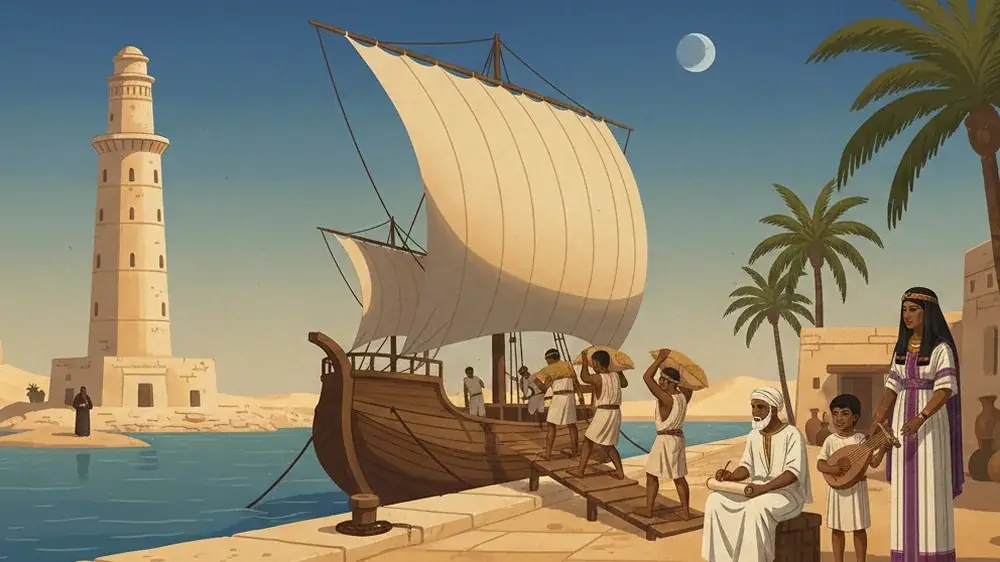
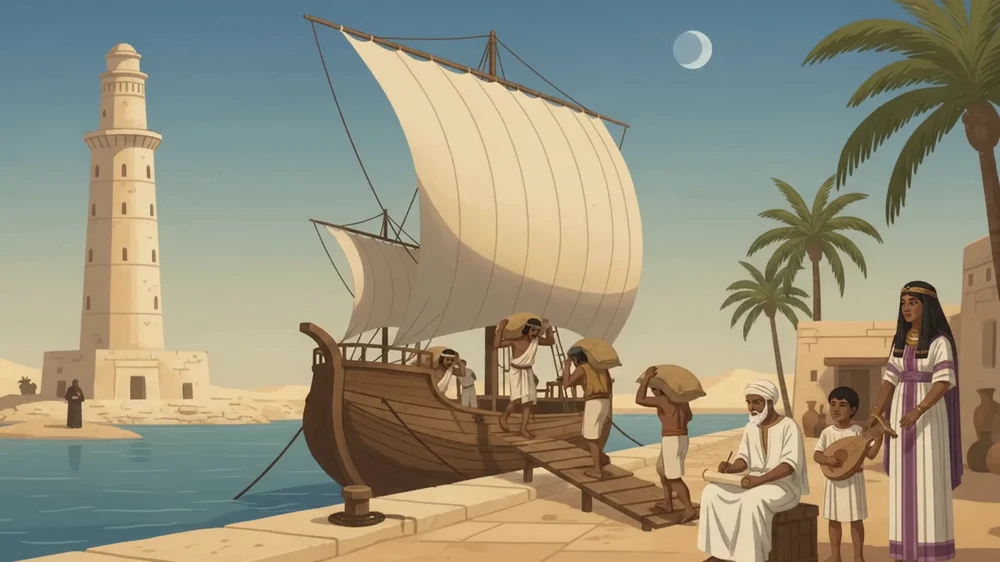
add: animación Gemini ant5-1 (Egipto romano y cristiano)
Claude-Session: https://claude.ai/code/session_01PD9K1kjfaCs4fqXJTcWSvd

diff --git a/sw.js b/sw.js
@@ -1,5 +1,5 @@
 // HistoKHB — service worker: la app abre sin conexión con lo ya visto.
-const V='hk-v296'
+const V='hk-v297'
 const SHELL=['./','index.html','manifest.json','datos/indice.json','img/icono-192.png'];
 self.addEventListener('install',e=>{e.waitUntil(caches.open(V).then(c=>c.addAll(SHELL)).then(()=>self.skipWaiting()));});
 self.addEventListener('activate',e=>{e.waitUntil(caches.keys().then(ks=>Promise.all(ks.filter(k=>k!==V).map(k=>caches.delete(k)))).then(()=>self.clients.claim()));});

diff --git a/foro/animaciones-pendientes.md b/foro/animaciones-pendientes.md
@@ -19,7 +19,7 @@ Al recibir un vídeo: se sube y se pasa `python3 herramientas/igualar_lamina.py 
 Veo no supo animarlas sin cambiar el dibujo. Todas las demás láminas ya tienen animación. Carlos las hace en su Gemini, de 12 en 12, con la plantilla de arriba; al recibir cada vídeo se sube, se pasa `herramientas/igualar_lamina.py <código>` y se marca aquí con [x].
 
 1. ✓ ant4-20 · Paracas y Nazca
-2. ant5-1 · Egipto romano y cristiano
+2. ✓ ant5-1 · Egipto romano y cristiano
 3. con1-19 · Fotografía, telégrafo y vapor
 4. con3-17 · Oriente Medio tras los otomanos
 5. con4-0 · La Guerra Fría
@@ -180,7 +180,7 @@ Veo no supo animarlas sin cambiar el dibujo. Todas las demás láminas ya tienen
 ### Edad Antigua · capítulo 5
 - [x] ant5-0 (Veo, 25-oct) · El Imperio romano
 - [x] ant5-8 (Veo, 25-oct) · Augusto y la Pax Romana
-- [ ] ant5-1 · Egipto romano y cristiano
+- [x] ant5-1 (Gemini, 25-oct) · Egipto romano y cristiano
 - [x] ant5-2 (Veo, 25-oct) · Judea, Jesús y el nacimiento del cristianismo
 - [x] ant5-3 (Veo, 25-oct) · China: Han, Tres Reinos y división
 - [x] ant5-12 (Veo, 25-oct) · Hispania en el Imperio: Mérida, Itálica y Las Médulas
